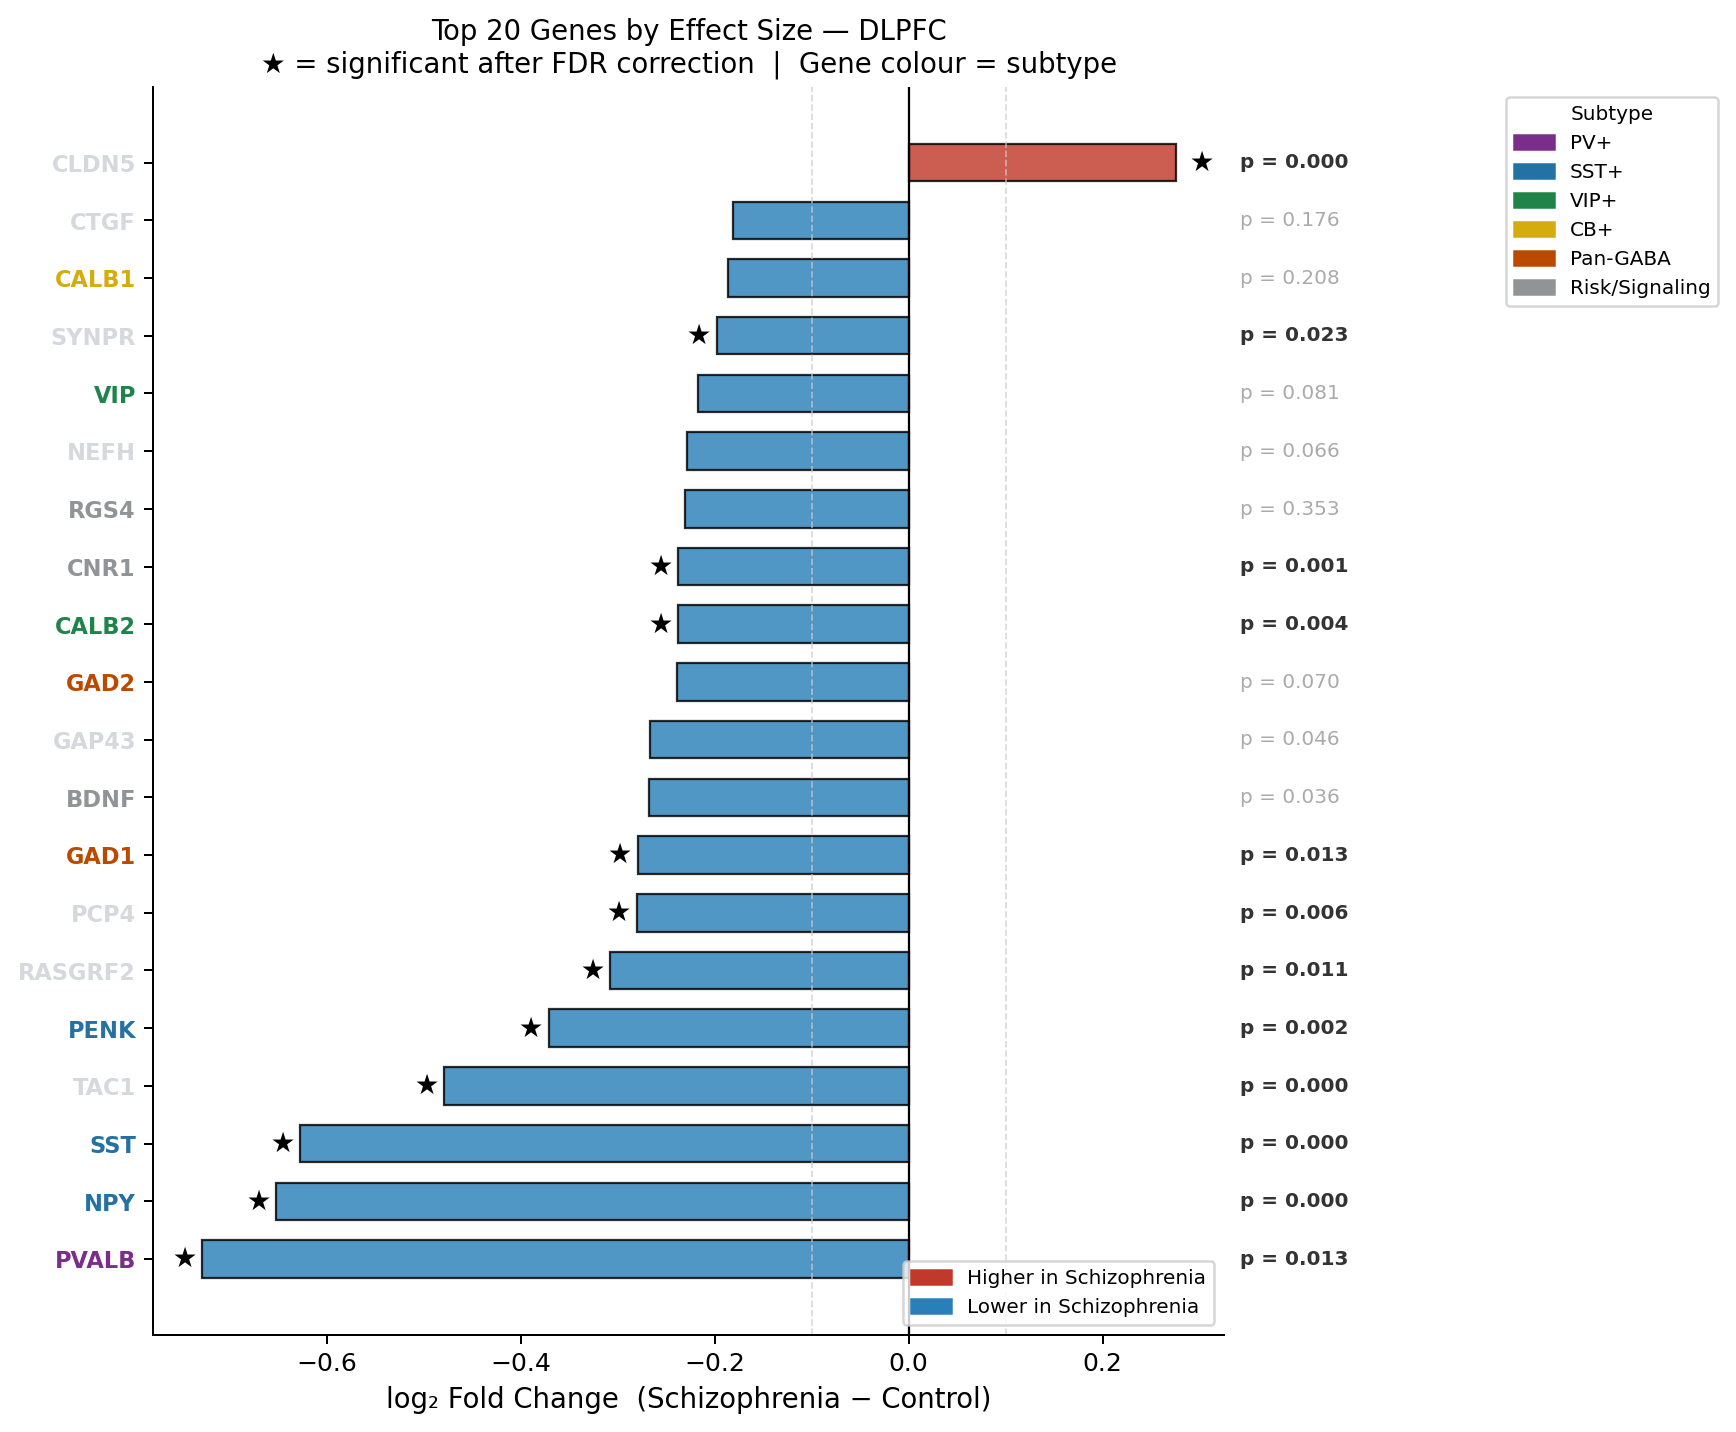
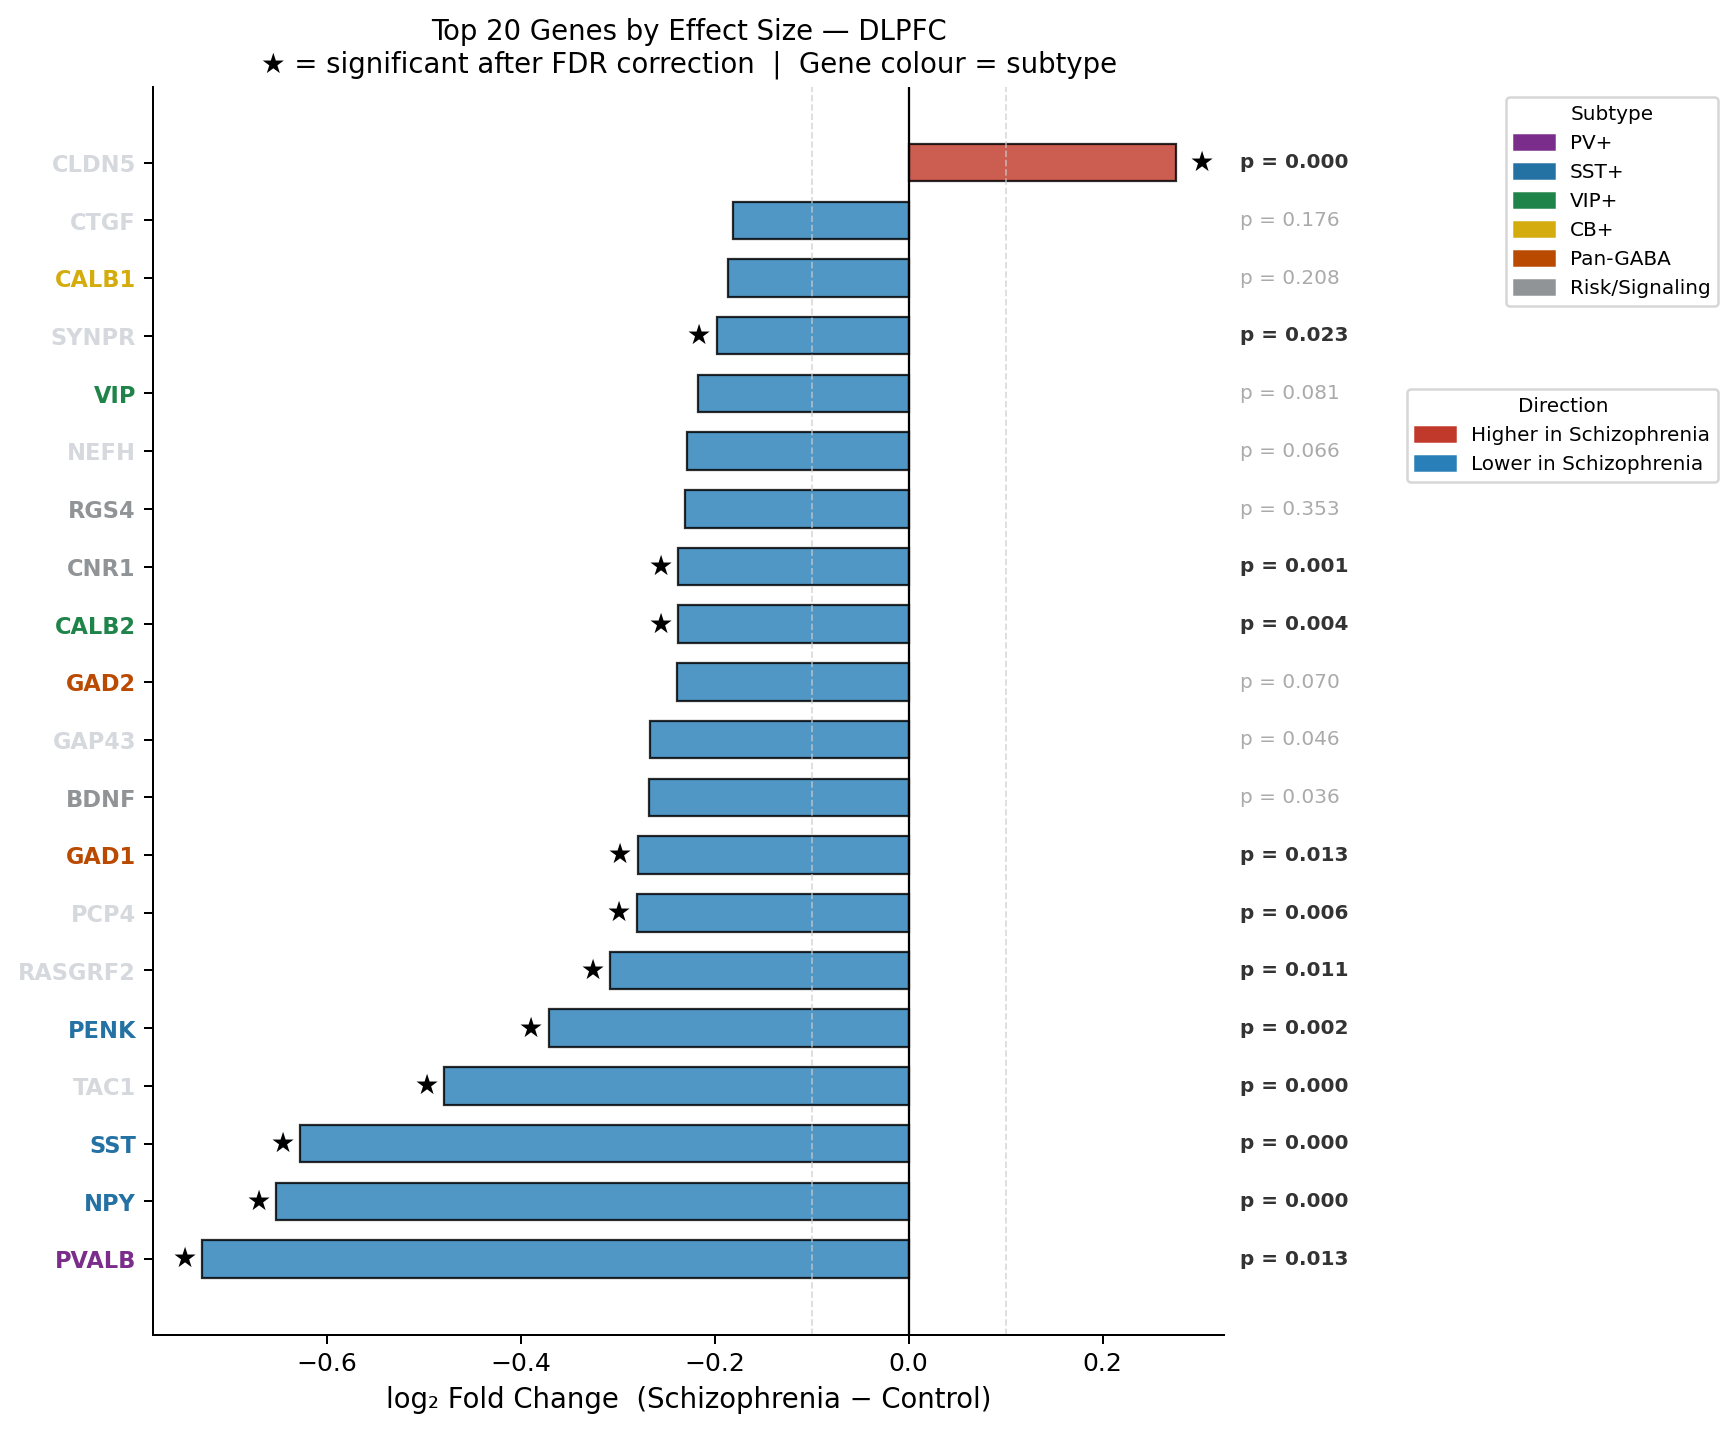
Updated Fig 7

Changed region(s): [[0.4977, 0.8603, 0.7154, 0.9218], [0.8088, 0.2765, 0.9954, 0.338]]

diff --git a/scripts/04_pathway_analysis.py b/scripts/04_pathway_analysis.py
@@ -252,17 +252,13 @@ def plot_fc_barplot(de, genes):
     """
     print("\n── Fig 7: FC bar chart ──────────────────────────────────")
     g2s = dict(zip(genes["gene"], genes["subtype"]))
-
     top = (de.reindex(de["log2fc"].abs().sort_values(ascending=False).index)
              .head(20)
              .sort_values("log2fc"))
-
     colors      = [SCZ_COLOR if fc > 0 else CTRL_COLOR for fc in top["log2fc"]]
     edge_colors = ["black" if s else "none" for s in top["significant"]]
-
     fig, ax = plt.subplots(figsize=(10, 9))
     fig.subplots_adjust(right=0.72)
-
     ax.barh(
         range(len(top)), top["log2fc"].values,
         color=colors, alpha=0.82,
@@ -271,22 +267,18 @@ def plot_fc_barplot(de, genes):
     )
     ax.set_yticks(range(len(top)))
     ax.set_yticklabels(top["gene"].values, fontsize=9)
-
     for tick, gene in zip(ax.get_yticklabels(), top["gene"].values):
         tick.set_color(SUBTYPE_COLORS.get(g2s.get(gene, ""), "#333333"))
         tick.set_fontweight("bold")
-
     ax.axvline(0, color="black", lw=0.9)
     ax.axvline( MIN_FC, color="#CCCCCC", lw=0.7, ls="--", alpha=0.7)
     ax.axvline(-MIN_FC, color="#CCCCCC", lw=0.7, ls="--", alpha=0.7)
-
     for i, (_, row) in enumerate(top.iterrows()):
         if row["significant"]:
             x_star = row["log2fc"] + (0.005 if row["log2fc"] > 0 else -0.005)
             ha_star = "left" if row["log2fc"] > 0 else "right"
             ax.text(x_star, i, " ★", va="center", ha=ha_star,
                     fontsize=11, color="black")
-
     x_pval = ax.get_xlim()[1] * 1.05
     for i, (_, row) in enumerate(top.iterrows()):
         style = "bold" if row["significant"] else "normal"
@@ -295,32 +287,32 @@ def plot_fc_barplot(de, genes):
                 va="center", ha="left", fontsize=8,
                 fontweight=style, color=color,
                 transform=ax.transData, clip_on=False)
-
     ax.set_xlabel("log₂ Fold Change  (Schizophrenia − Control)", fontsize=11)
     ax.set_title(
         "Top 20 Genes by Effect Size — DLPFC\n"
         "★ = significant after FDR correction  |  Gene colour = subtype",
         fontsize=11
     )
-
-    dir_patches = [
-        mpatches.Patch(color=SCZ_COLOR,  label="Higher in Schizophrenia"),
-        mpatches.Patch(color=CTRL_COLOR, label="Lower in Schizophrenia"),
-    ]
     present = {g2s.get(g, "") for g in top["gene"].values}
     sub_patches = [mpatches.Patch(color=v, label=k)
                    for k, v in SUBTYPE_COLORS.items()
                    if k in present and k != "SCZ candidate"]
-
-    ax.legend(handles=dir_patches, loc="lower right",
-              frameon=True, edgecolor="#CCCCCC", fontsize=8)
+    dir_patches = [
+        mpatches.Patch(color=SCZ_COLOR,  label="Higher in Schizophrenia"),
+        mpatches.Patch(color=CTRL_COLOR, label="Lower in Schizophrenia"),
+    ]
     ax.figure.legend(
         handles=sub_patches,
         loc="upper right", bbox_to_anchor=(1.0, 0.88),
         title="Subtype", title_fontsize=8,
         frameon=True, edgecolor="#CCCCCC", fontsize=8
     )
-
+    ax.figure.legend(
+        handles=dir_patches,
+        loc="upper right", bbox_to_anchor=(1.0, 0.70),
+        title="Direction", title_fontsize=8,
+        frameon=True, edgecolor="#CCCCCC", fontsize=8
+    )
     fig.savefig(FIG_DIR / "fig7_barplot_fc.png", bbox_inches="tight")
     plt.close()
     print("  Saved → fig7_barplot_fc.png")